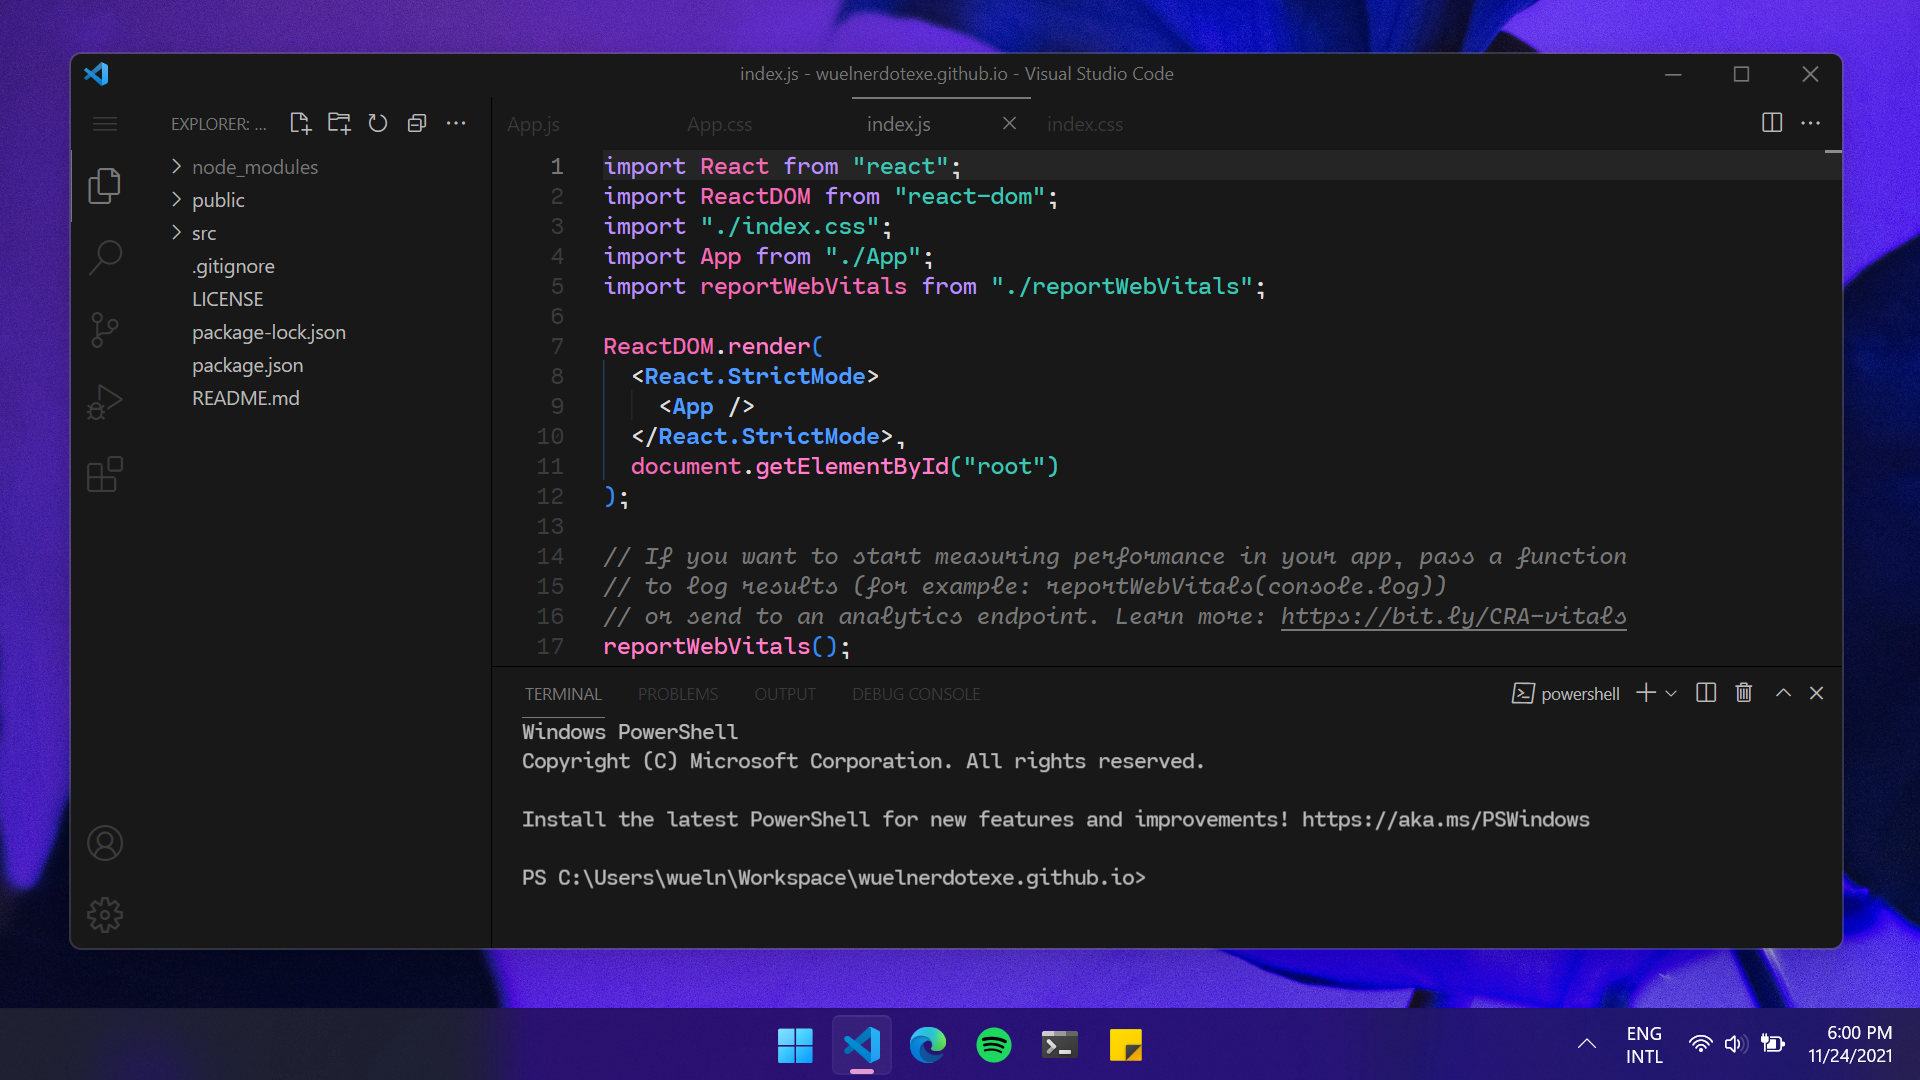
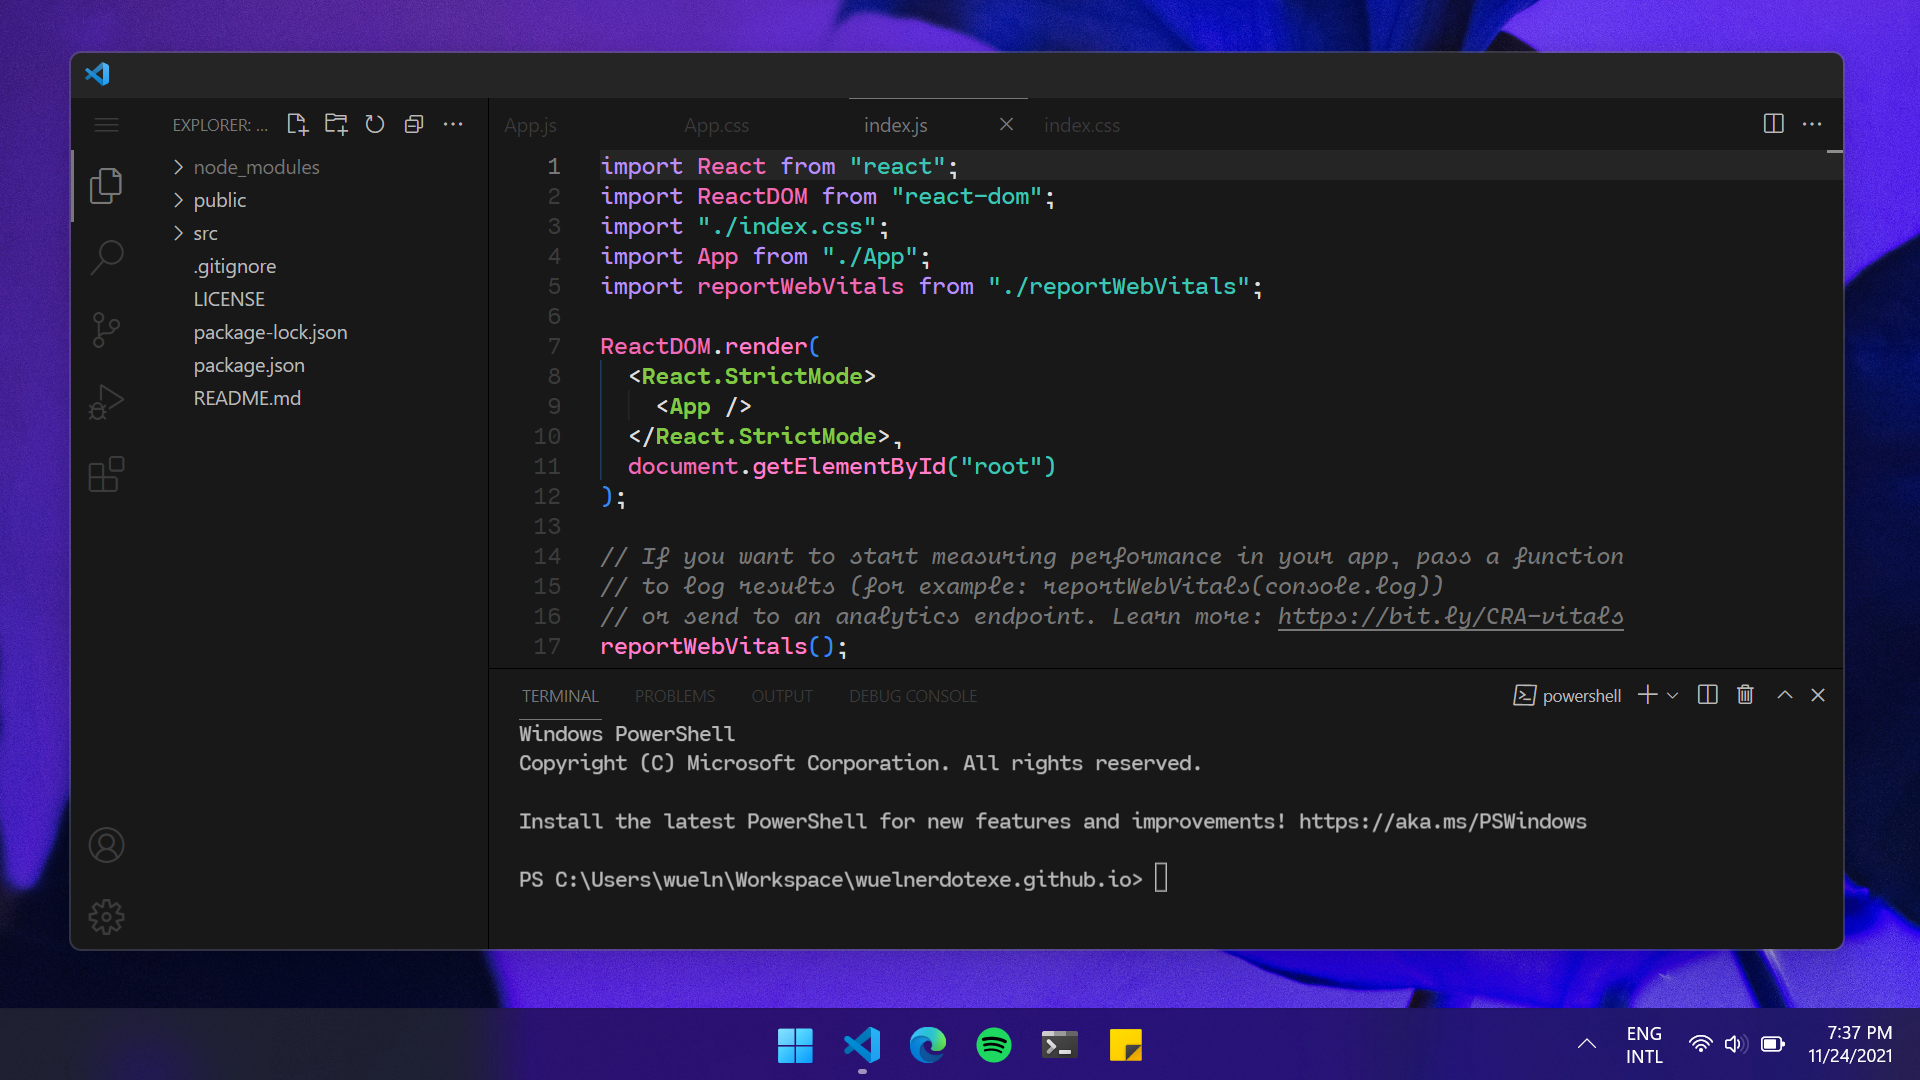
fix(syntax): color changes to for supports

diff --git a/CHANGELOG.md b/CHANGELOG.md
@@ -4,6 +4,12 @@ All notable changes to this project will be documented in this file.
 
 The format is based on [Keep a Changelog](https://keepachangelog.com/en/1.0.0/), and this project adheres to [Semantic Versioning](https://semver.org/spec/v2.0.0.html).
 
+## [1.2.1] - 2021-11-25
+
+### Fixed
+
+- Blue color changes to green for support identifiers in Enfocado Neon.
+
 ## [1.2.0] - 2021-11-24
 
 ### Added
